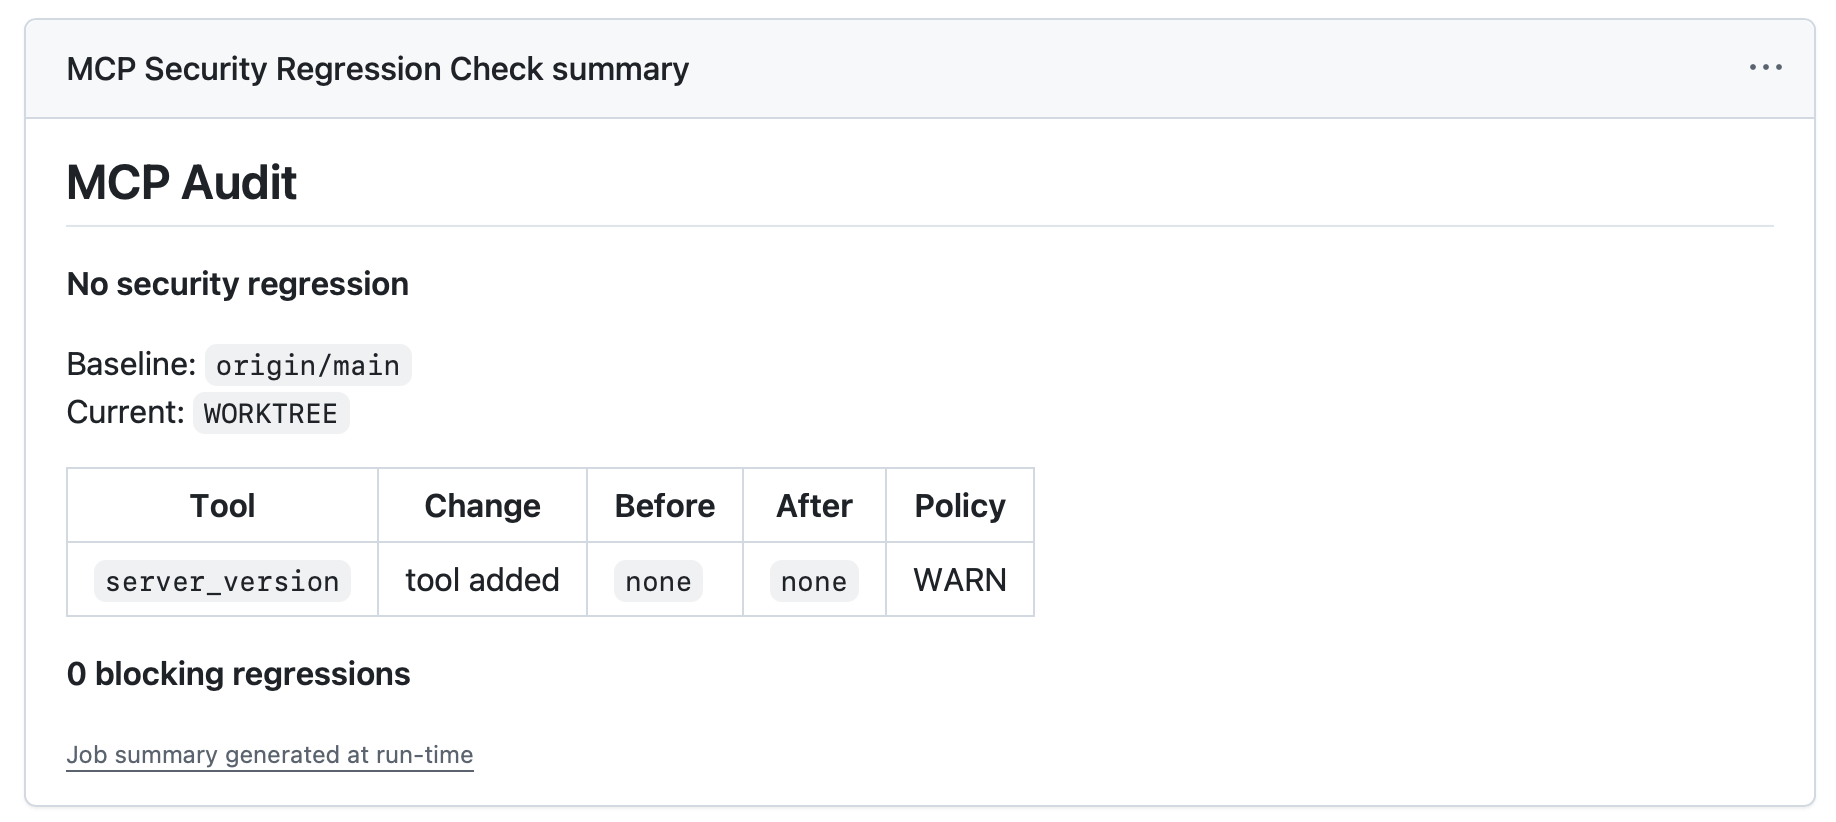
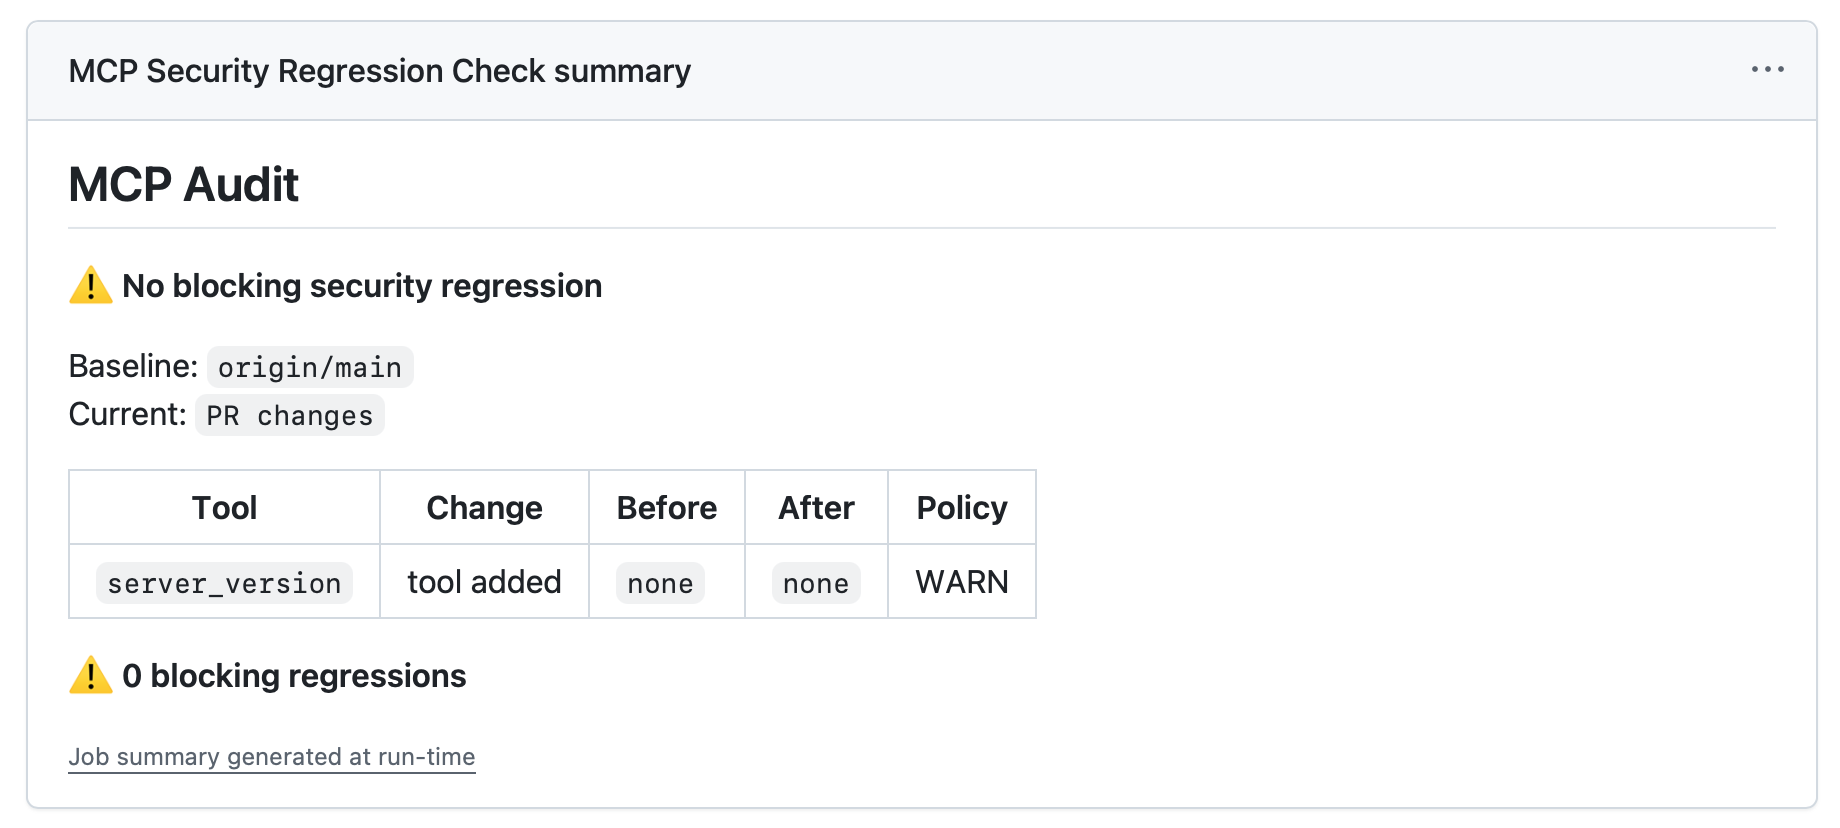
fix: render README demo images on PyPI

diff --git a/tests/test_reporters.py b/tests/test_reporters.py
@@ -15,7 +15,7 @@ def test_json_schema_has_stable_version_and_structured_evidence() -> None:
     payload = scan_path(ROOT / "fixtures/url_arbitrary").as_dict()
     assert payload["schema_version"] == "1.0"
     assert payload["report_type"] == "scan"
-    assert payload["versions"] == {"cli": "0.2.2", "rules": "0.2"}
+    assert payload["versions"] == {"cli": "0.2.3", "rules": "0.2"}
     evidence = payload["findings"][0]["evidence"][0]
     assert set(evidence) == {"kind", "message", "location", "snippet"}
     assert payload["tools"][0]["context"] == "server.py:mcp"
@@ -31,7 +31,7 @@ def test_terminal_finding_answers_risk_and_remediation() -> None:
 def test_sarif_contains_source_region_snippet_and_help() -> None:
     payload = json.loads(render_sarif(scan_path(ROOT / "fixtures/url_arbitrary")))
     run = payload["runs"][0]
-    assert run["tool"]["driver"]["semanticVersion"] == "0.2.2"
+    assert run["tool"]["driver"]["semanticVersion"] == "0.2.3"
     assert run["tool"]["driver"]["properties"]["rulesVersion"] == "0.2"
     result = next(item for item in run["results"] if item["ruleId"] == "MCP003")
     region = result["locations"][0]["physicalLocation"]["region"]

diff --git a/src/mcp_audit/__init__.py b/src/mcp_audit/__init__.py
@@ -1,6 +1,6 @@
 """MCP Audit public package and independently evolving contract versions."""
 
-__version__ = "0.2.2"
+__version__ = "0.2.3"
 RULESET_VERSION = "0.2"
 REPORT_SCHEMA_VERSION = "1.0"
 MANIFEST_SCHEMA_VERSION = "1.0"

diff --git a/README.md b/README.md
@@ -10,19 +10,19 @@ MCP Audit tells you when a pull request makes an MCP server more dangerous.
 
 Filesystem scope widened from allowlisted to unrestricted.
 
-![MCP Audit blocking an unrestricted filesystem regression](docs/assets/demo/blocking-regression.png)
+![MCP Audit blocking an unrestricted filesystem regression](https://raw.githubusercontent.com/robbyfa/MCP-Audit/v0.2.3/docs/assets/demo/blocking-regression.png)
 
 **No security regression**
 
 A new read-only tool was added; MCP Audit warns but does not block.
 
-![MCP Audit allowing a harmless read-only tool](docs/assets/demo/harmless-tool-added.png)
+![MCP Audit allowing a harmless read-only tool](https://raw.githubusercontent.com/robbyfa/MCP-Audit/v0.2.3/docs/assets/demo/harmless-tool-added.png)
 
 **Security improvement**
 
 Filesystem access was narrowed and previous findings were resolved.
 
-![MCP Audit reporting resolved filesystem findings](docs/assets/demo/security-improvement.png)
+![MCP Audit reporting resolved filesystem findings](https://raw.githubusercontent.com/robbyfa/MCP-Audit/v0.2.3/docs/assets/demo/security-improvement.png)
 
 Add it to a pull-request workflow:
 
@@ -41,7 +41,7 @@ steps:
     with:
       python-version: "3.12"
 
-  - uses: robbyfa/MCP-Audit@v0.2.2
+  - uses: robbyfa/MCP-Audit@v0.2.3
     with:
       path: .
       baseline: origin/main
@@ -148,7 +148,7 @@ steps:
   - uses: actions/setup-python@v5
     with:
       python-version: "3.12"
-  - uses: robbyfa/MCP-Audit@v0.2.2
+  - uses: robbyfa/MCP-Audit@v0.2.3
     with:
       path: .
       baseline: origin/main

diff --git a/docs/versioning.md b/docs/versioning.md
@@ -4,7 +4,7 @@ MCP Audit maintains five independent versions:
 
 | Contract | Current | Change policy |
 | --- | --- | --- |
-| CLI/package | `0.2.2` | Semantic versioning; pre-1.0 minor releases may change CLI behavior |
+| CLI/package | `0.2.3` | Semantic versioning; pre-1.0 minor releases may change CLI behavior |
 | Ruleset | `0.2` | Minor adds, retires, or materially changes rules; patch corrects implementation without intended semantic change |
 | JSON report schema | `1.0` | Minor changes are additive; major changes may remove fields or change meaning |
 | Security diff schema | `1.0` | Minor changes are additive; major changes may remove fields or change classification meaning |

diff --git a/CHANGELOG.md b/CHANGELOG.md
@@ -4,6 +4,18 @@ All notable changes follow Keep a Changelog. Releases use semantic versioning fo
 
 ## [Unreleased]
 
+## [0.2.3] - 2026-10-01
+
+### Fixed
+
+- Use absolute, tag-pinned image URLs so PyPI renders the README demo screenshots.
+- Refresh the three README assets with the final v0.2.2 Action summaries.
+
+### Verified
+
+- 91 automated tests and an isolated wheel installation.
+- README image URLs point to assets contained in the matching Git tag.
+
 ## [0.2.2] - 2026-10-01
 
 ### Changed

diff --git a/docs/releasing.md b/docs/releasing.md
@@ -19,7 +19,7 @@ Install the wheel into a clean environment and verify `mcp-audit --version`, a p
 
 ## Publish
 
-1. Create and push the matching Git tag, such as `v0.2.2`.
+1. Create and push the matching Git tag, such as `v0.2.3`.
 2. Publish the matching GitHub Release. This automatically runs `release.yml`.
 3. Verify `pipx install mcp-capdiff` in a clean environment.
 4. Run the tagged Action from the demo repository and confirm SARIF appears in Code Scanning.

diff --git a/examples/vulnerable-fastmcp/README.md b/examples/vulnerable-fastmcp/README.md
@@ -17,4 +17,4 @@ To turn one scenario into a local demo repository, copy `before.py` to `server.p
 mcp-audit diff --baseline HEAD .
 ```
 
-The included workflow uses the v0.2.2 Action and writes both SARIF annotations and a Markdown job summary.
+The included workflow uses the v0.2.3 Action and writes both SARIF annotations and a Markdown job summary.

diff --git a/docs/rules/README.md b/docs/rules/README.md
@@ -1,6 +1,6 @@
 # MCP Audit rules
 
-Rules are versioned independently from the CLI. MCP Audit `0.2.2` ships ruleset `0.2`.
+Rules are versioned independently from the CLI. MCP Audit `0.2.3` ships ruleset `0.2`.
 
 | Rule | Default severity | Purpose |
 | --- | --- | --- |
